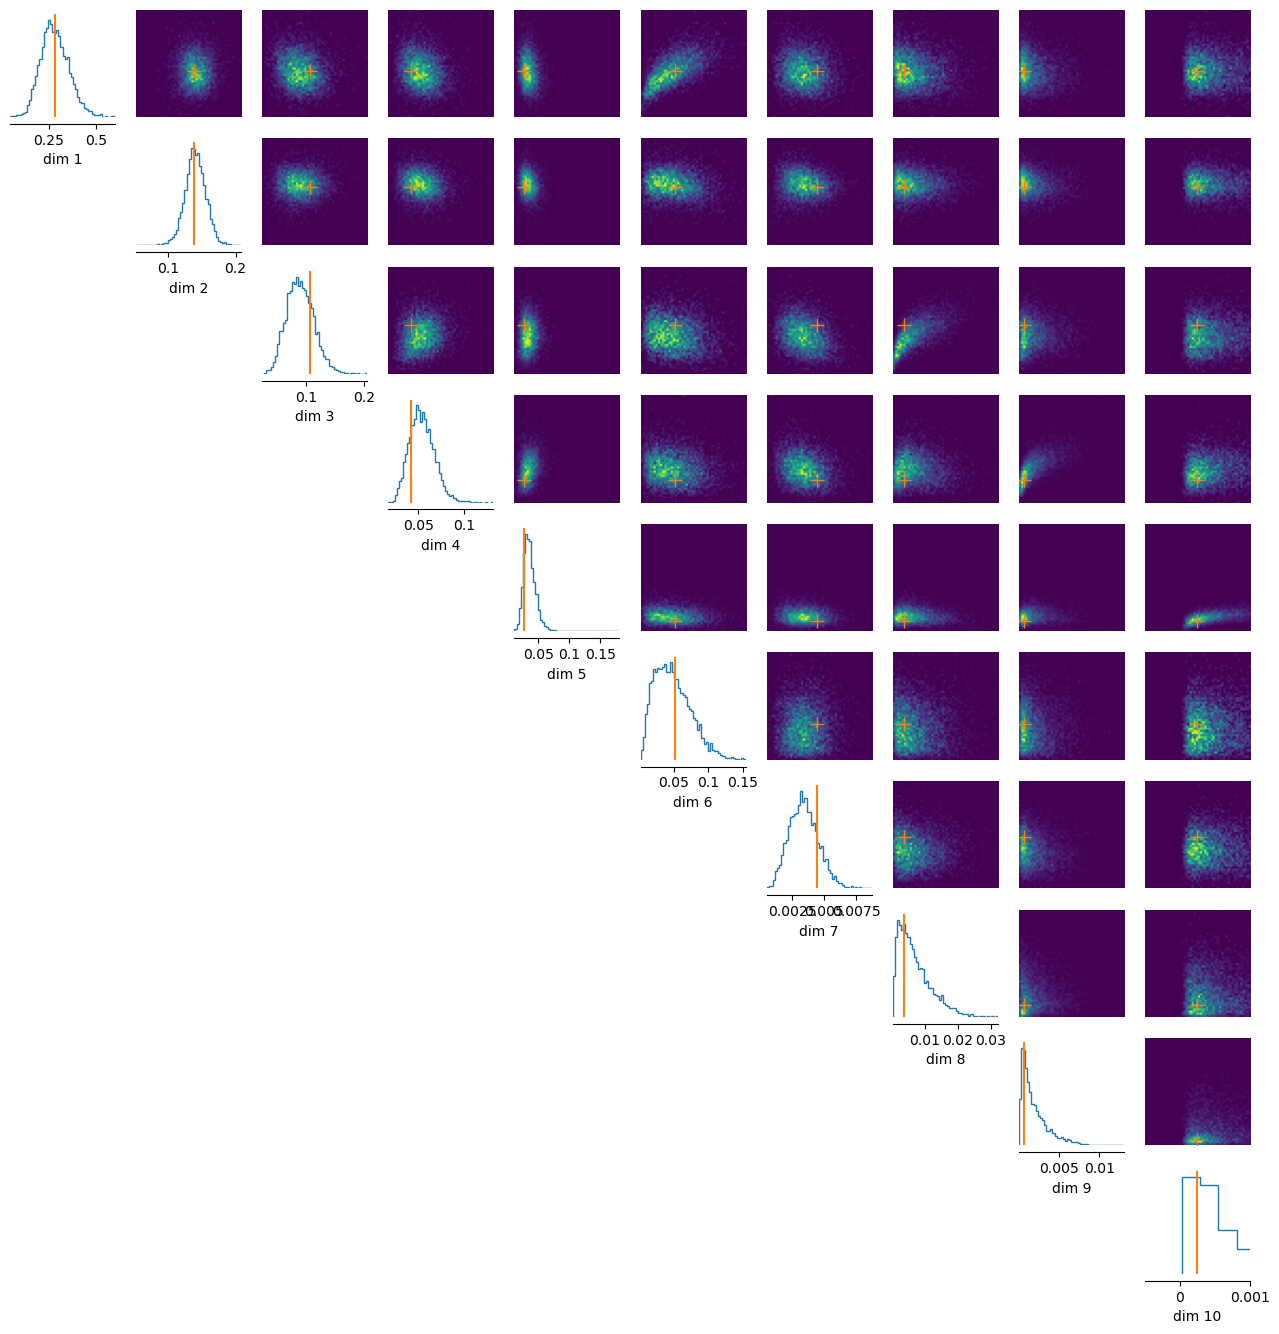
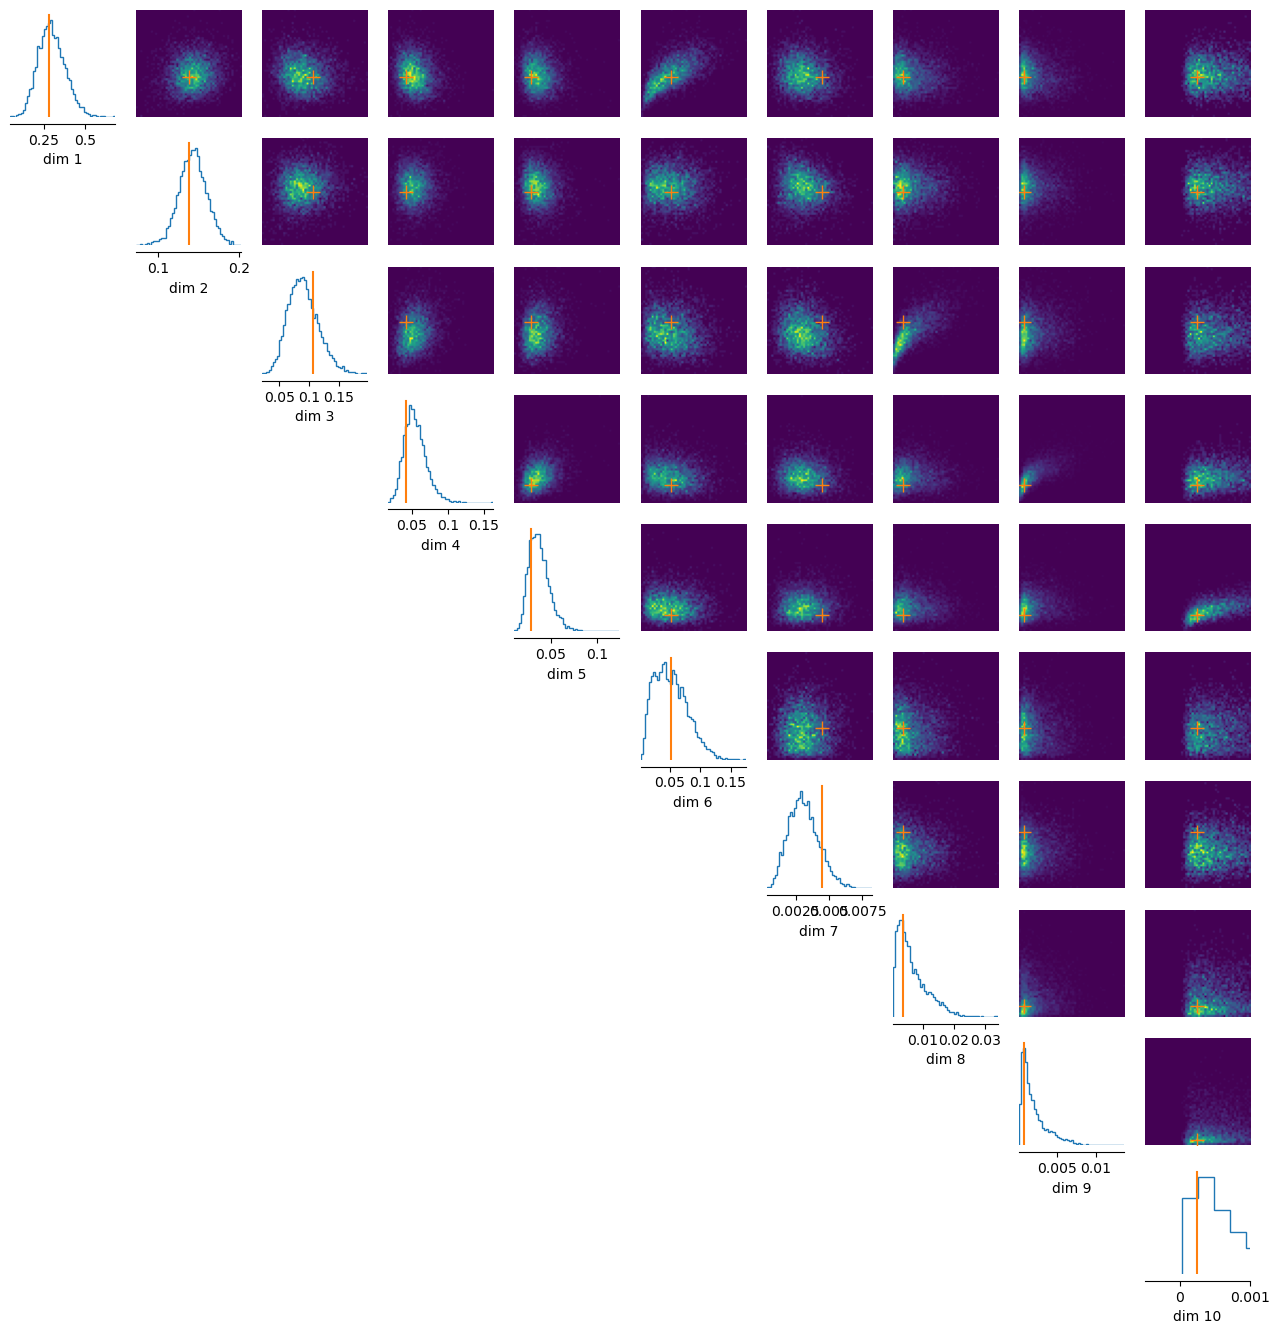
Update calibration

diff --git a/model_fitting/calibration.py b/model_fitting/calibration.py
@@ -16,7 +16,7 @@ processes = ['mortality']
 for pr in processes:
     if pr == 'mortality':
         from mortality.simulator import simulator, fixed
-        labels = ['alph_m', 'beta_m', 'sigm_m', 'gamm_nu', 'kappa']#, 'gamm_m']
+        labels = ['alph_m', 'beta_m', 'sigm_m', 'gamm_nu', 'kappa', 'K_adult']
     elif pr == 'fecundity':
         from fecundity.simulator import simulator
         fixed = {}
